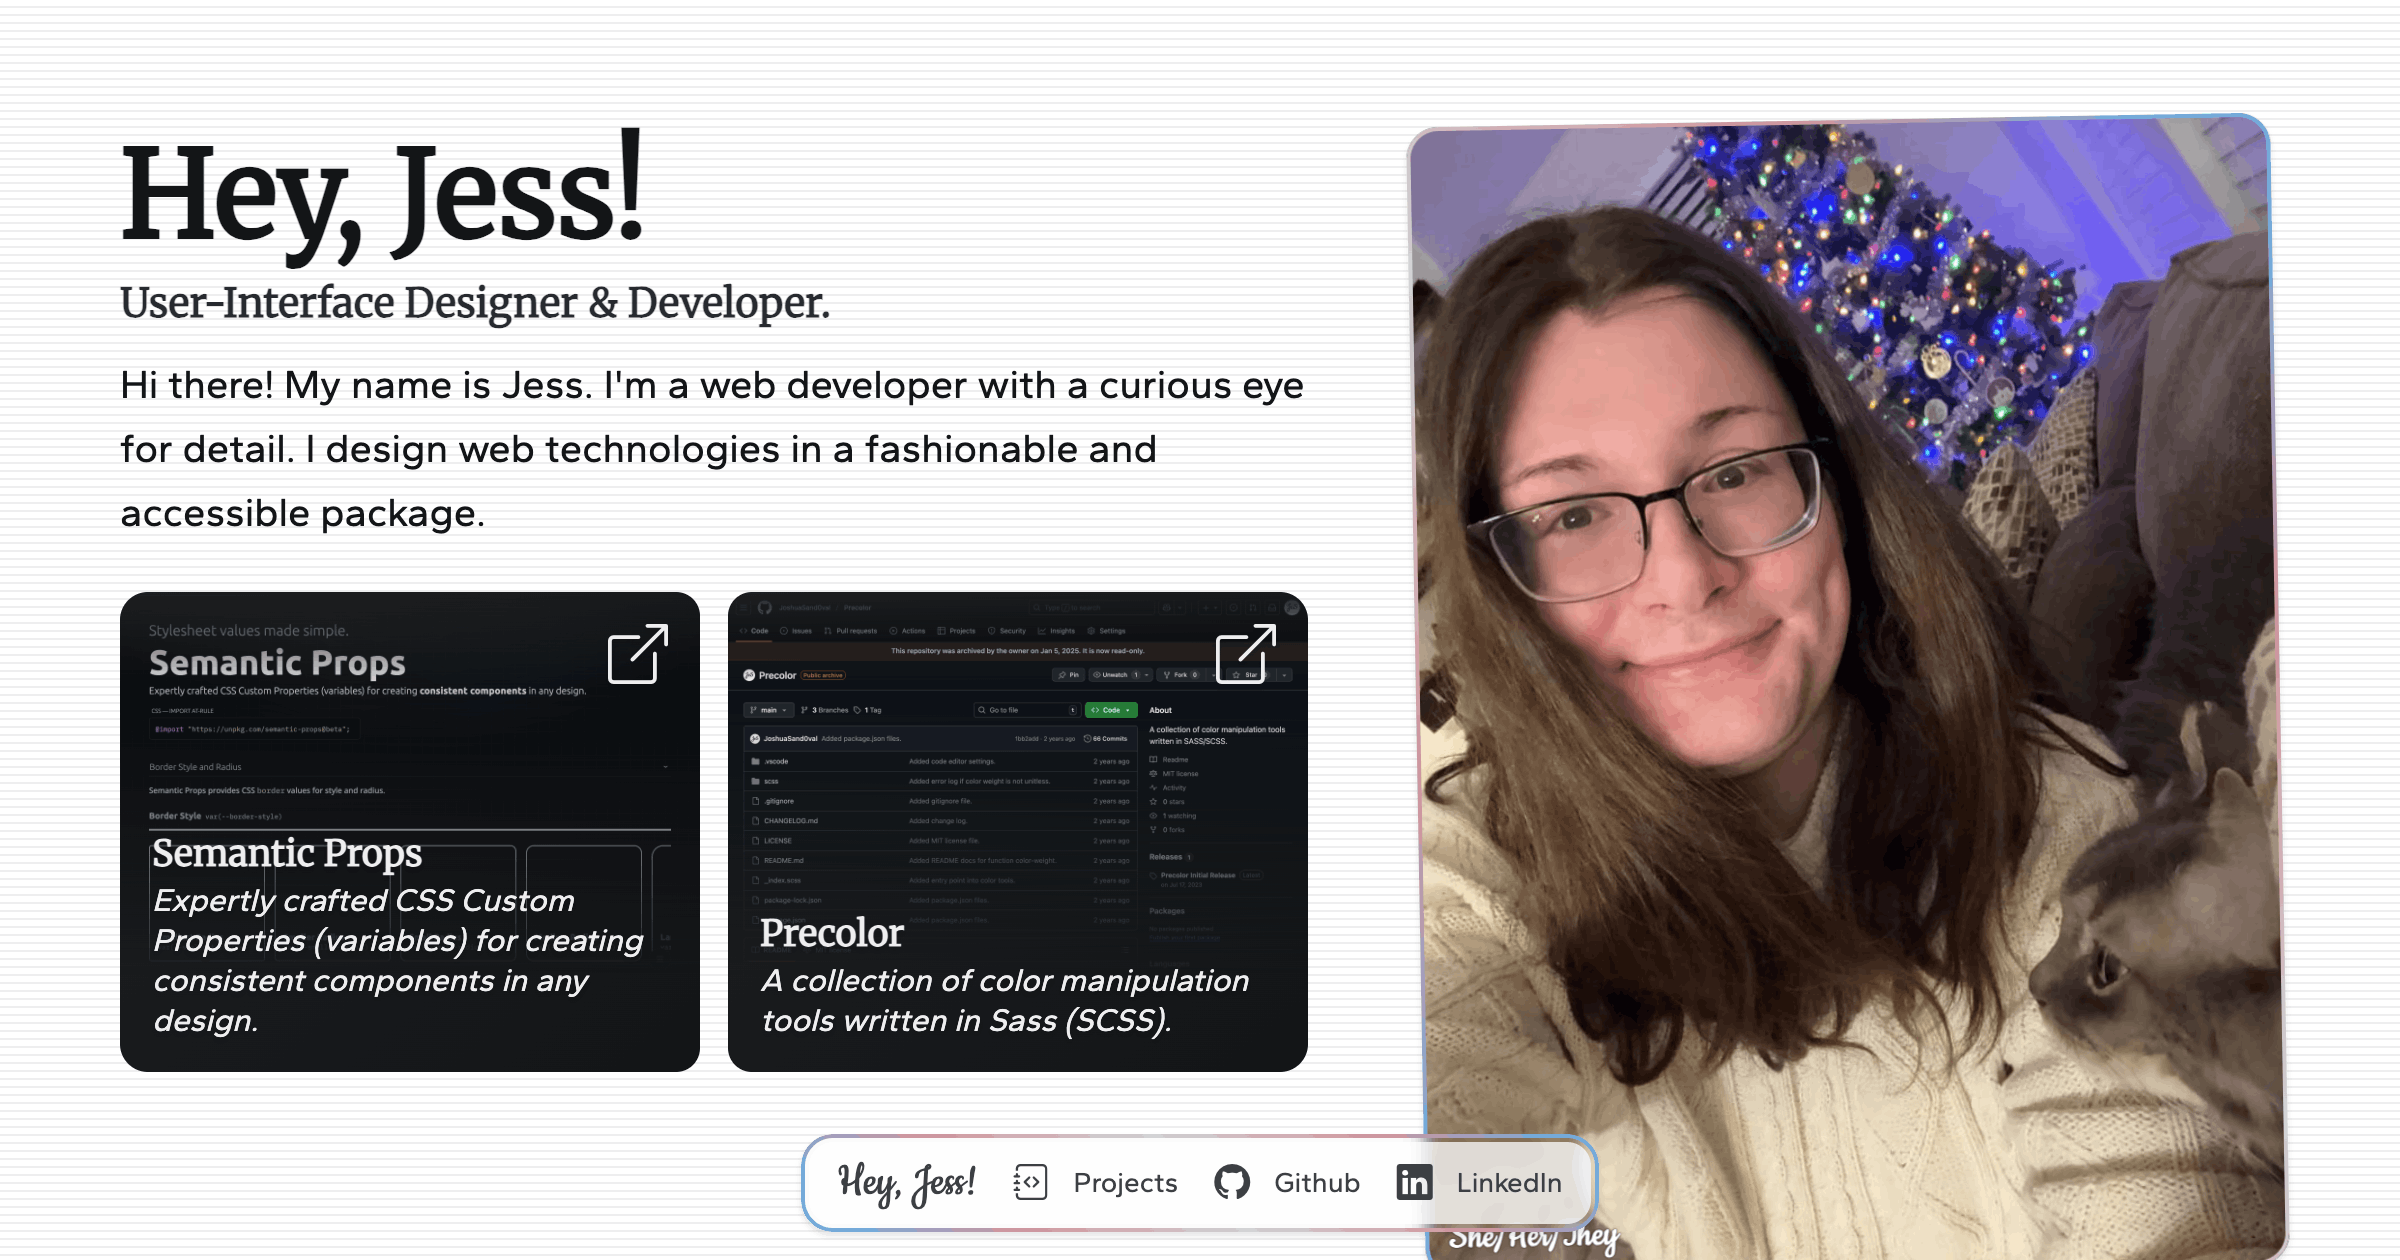
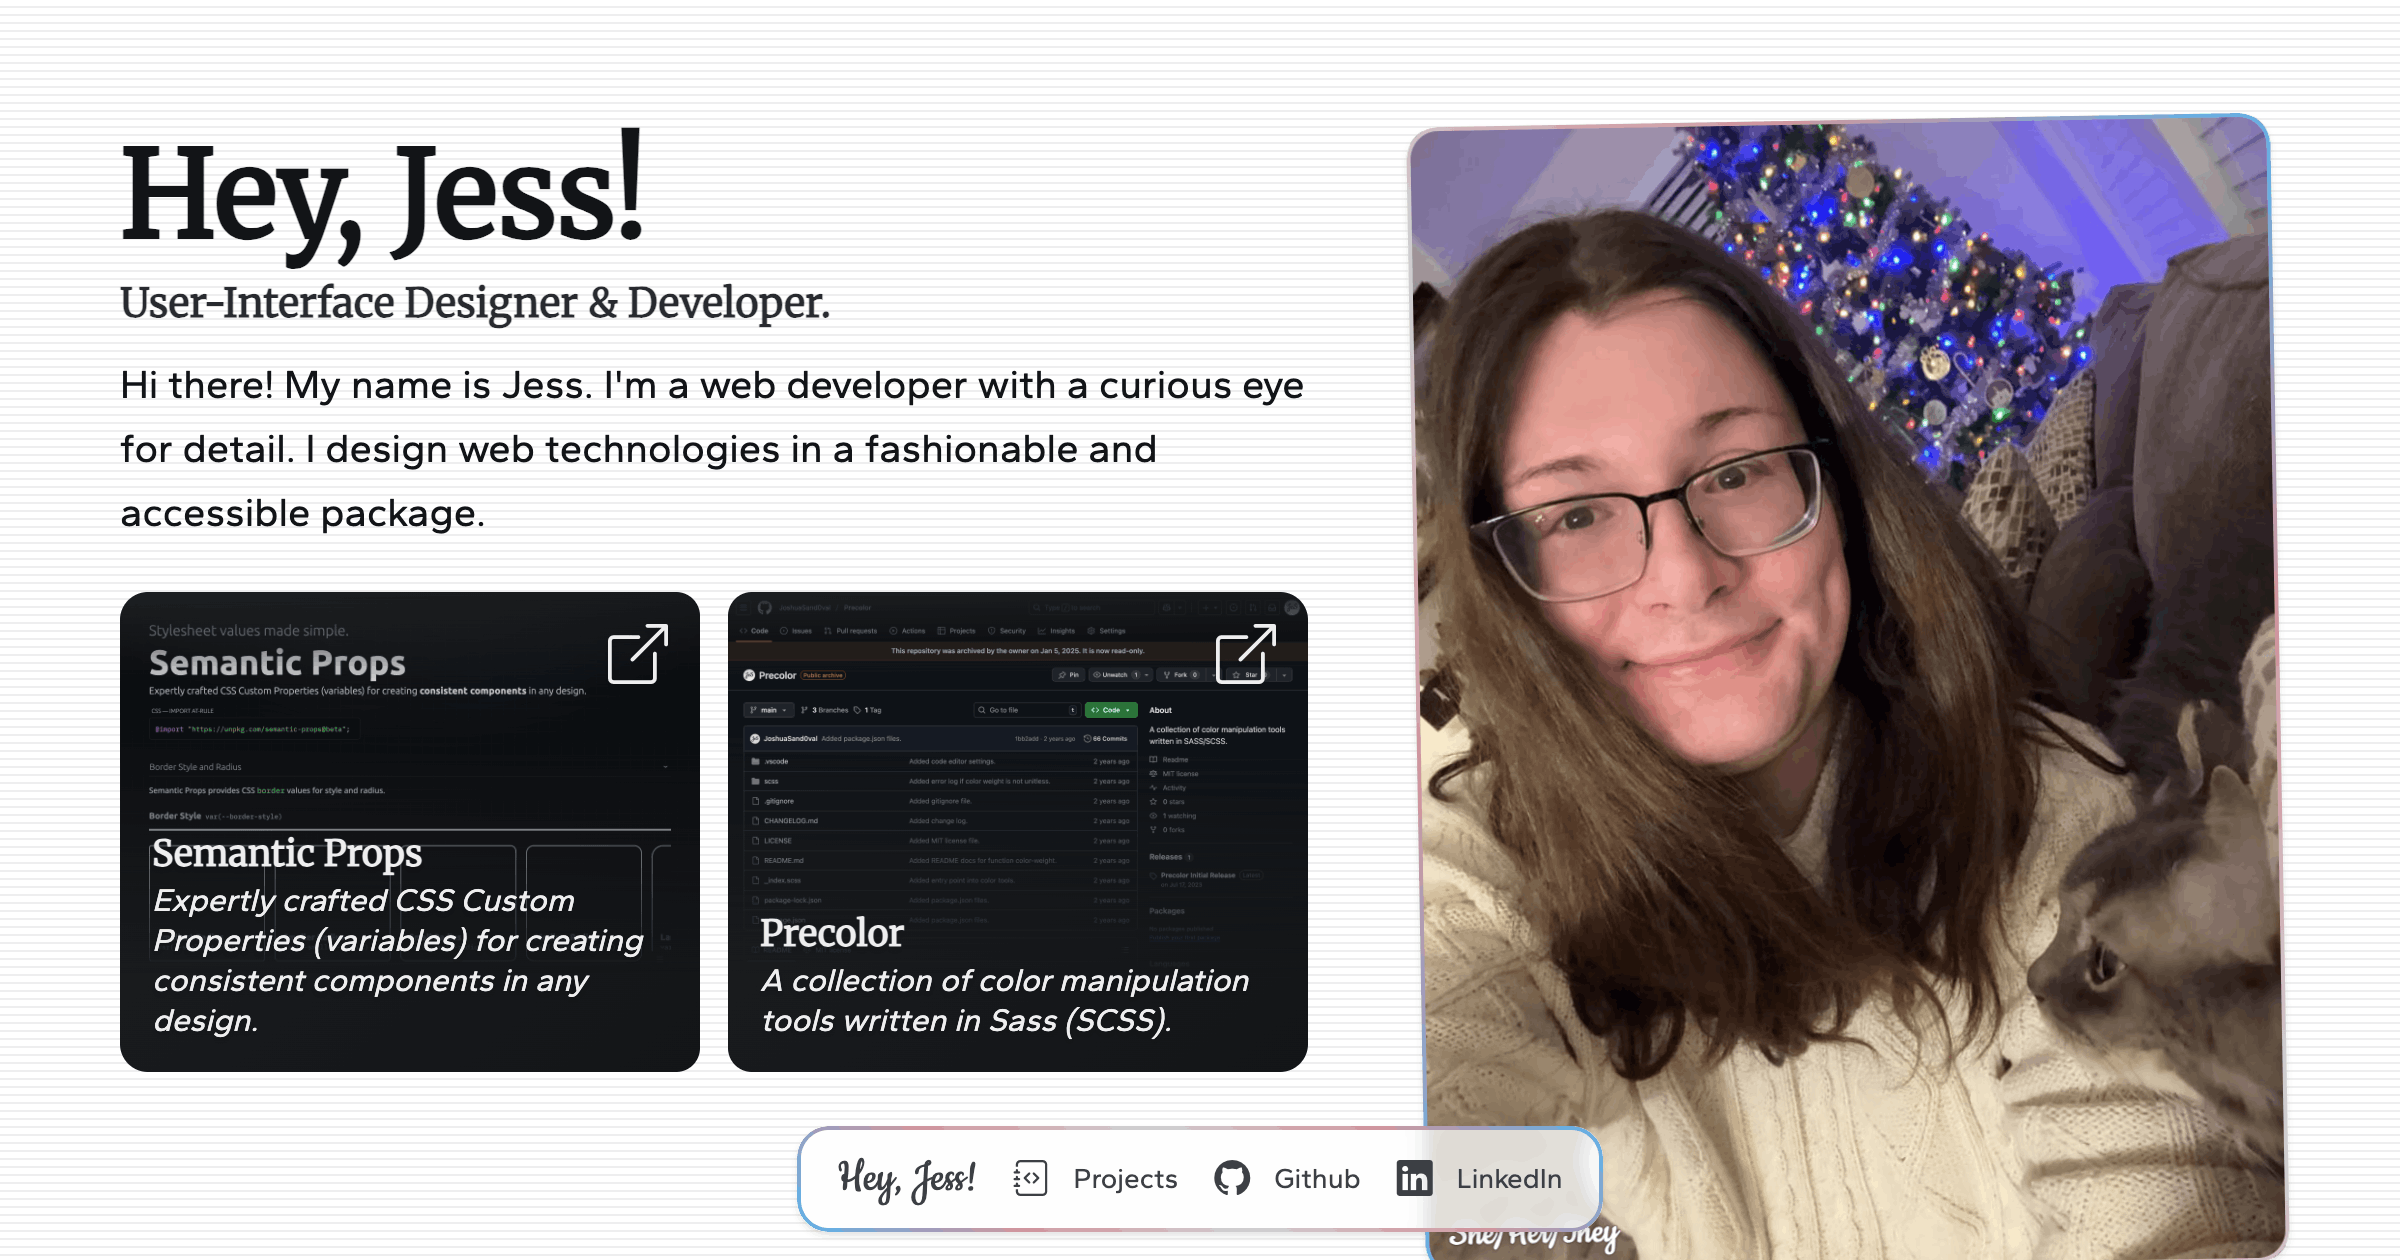
Rebuilt website.

diff --git a/docs/assets/index-BRXLuq2D.css b/docs/assets/index-BRXLuq2D.css
@@ -2540,7 +2540,7 @@ url("/assets/bootstrap-icons-BeopsB42.woff?e34853135f9e39acf64315236852cd5a") fo
 }.f1a1me05{display:block;font-size:var(--x-small);padding-inline-start:max(var(--margin-size), var(--safe-left));padding-inline-end:max(var(--margin-size), var(--safe-right));padding-block-start:var(--x-small);padding-block-end:max(var(--small), var(--safe-bottom));color:var(--low-contrast-color);}
 .w1aekpxx{display:block;inline-size:min(100%, var(--largest-container));margin-inline:auto;}
 .cibpx3b{display:block;text-align:end;}
-.cetjehu{position:relative;z-index:0;display:block;backdrop-filter:var(--lighter-blur);border-radius:var(--medium-radius);box-shadow:var(--lightest-box-shadow);color:var(--high-contrast-color);padding:var(--4x-small);overflow:hidden;}.cetjehu::before,.cetjehu::after{content:"";position:absolute;inset:0;border-radius:inherit;pointer-events:none;}.cetjehu::before{z-index:var(--z-bottom);background-color:var(--background-color);opacity:var(--higher-opacity);}.cetjehu::after{z-index:var(--z-top);-webkit-mask:linear-gradient(#000 0 0) content-box,linear-gradient(#000 0 0) padding-box;mask:linear-gradient(#000 0 0) content-box,linear-gradient(#000 0 0) padding-box;-webkit-mask-composite:xor;mask-composite:exclude;padding:inherit;background-image:linear-gradient(45deg,
+.cetjehu{position:relative;z-index:0;display:block;backdrop-filter:var(--lighter-blur);border-radius:var(--medium-radius);box-shadow:var(--lightest-box-shadow);color:var(--high-contrast-color);overflow:hidden;}.cetjehu::before,.cetjehu::after{content:"";position:absolute;inset:0;border-radius:inherit;pointer-events:none;}.cetjehu::before{z-index:var(--z-bottom);background-color:var(--background-color);-webkit-background-clip:content-box;background-clip:content-box;opacity:var(--higher-opacity);padding:var(--3x-small);}.cetjehu::after{z-index:var(--z-top);-webkit-mask:linear-gradient(#000 0 0) content-box,linear-gradient(#000 0 0) padding-box;mask:linear-gradient(#000 0 0) content-box,linear-gradient(#000 0 0) padding-box;-webkit-mask-composite:xor;mask-composite:exclude;padding:var(--4x-small);background-image:linear-gradient(45deg,
 				var(--blue-300),
 				var(--pink-300),
 				var(--gray-150),

diff --git a/docs/index.html b/docs/index.html
@@ -13,8 +13,8 @@
 	<meta property="og:type" content="website" />
 	<meta property="og:image" content="/opengraph.png" />
 	<meta property="og:url" content="https://heyjes.dev/" />
-  <script type="module" crossorigin src="/assets/index-DYUdmCRu.js"></script>
-  <link rel="stylesheet" crossorigin href="/assets/index-BIkA9YOK.css">
+  <script type="module" crossorigin src="/assets/index-DNb_DaQR.js"></script>
+  <link rel="stylesheet" crossorigin href="/assets/index-BRXLuq2D.css">
 </head>
 <body>
 	<div id="root"></div>
